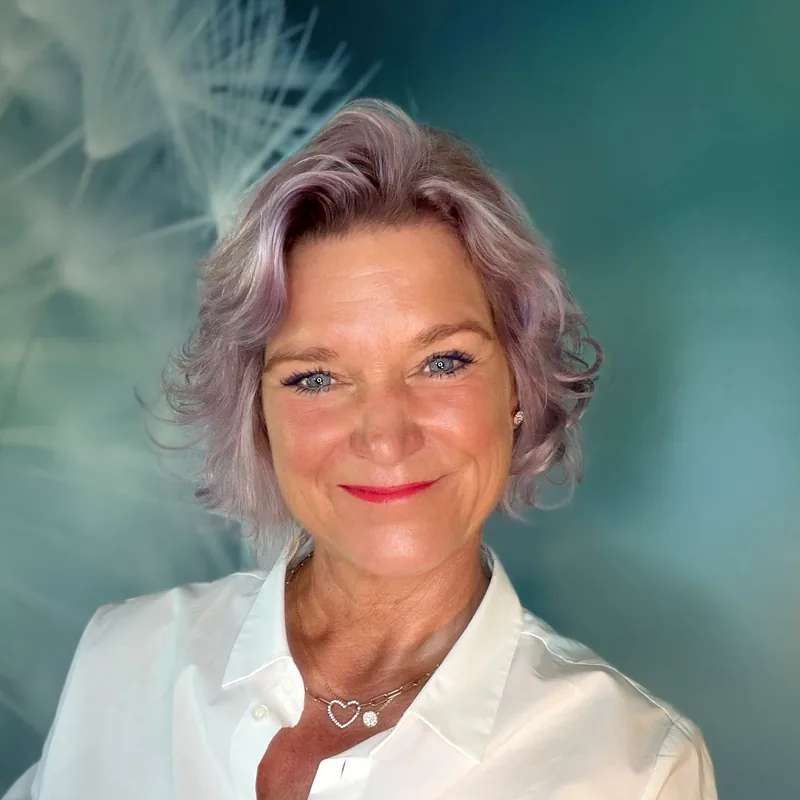
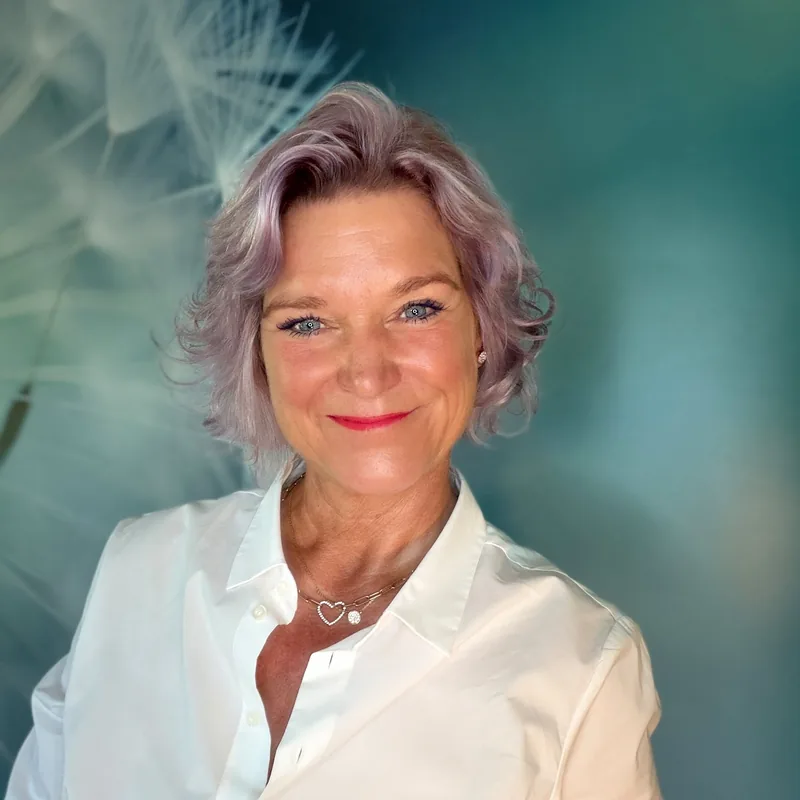
Überraschungspaket dezenter, Porträt mit mehr Abstand
- Pakete in hellem Türkis und Sand, schmale Bänder in Petrol und Taupe
- Über mich: Bildausschnitt weiter, Kopf nicht mehr so nah

Claude-Session: https://claude.ai/code/session_01LTkGqP8khUMw3CWRbYC2Nb

diff --git a/sdesign-startseite 2/assets/style.css b/sdesign-startseite 2/assets/style.css
@@ -415,18 +415,18 @@ footer{background:var(--paper);padding-top:2.5rem}
 @keyframes peek{0%,78%,100%{transform:rotateX(0)}86%{transform:rotateX(-26deg)}92%{transform:rotateX(-10deg)}}
 .cover .front,.cover .back{position:absolute;inset:0;border-radius:20px;-webkit-backface-visibility:hidden;backface-visibility:hidden}
 .cover .back{transform:rotateX(180deg);background:linear-gradient(135deg,var(--sand),var(--paper));box-shadow:inset 0 0 0 1px var(--line)}
-.cover .front{overflow:hidden;display:grid;place-items:center;color:#FFFFFF;background:radial-gradient(circle,rgba(255,255,255,.16) 1.5px,transparent 2px) 0 0/18px 18px,var(--g);box-shadow:0 22px 40px -20px rgba(21,76,85,.75),inset 0 0 0 1px rgba(255,255,255,.18)}
+.cover .front{overflow:hidden;display:grid;place-items:center;color:var(--rb);background:radial-gradient(circle,rgba(29,102,114,.07) 1.5px,transparent 2px) 0 0/18px 18px,var(--g);box-shadow:0 18px 36px -22px rgba(21,76,85,.45),inset 0 0 0 1px #DDE7E6}
 .cover .front::before,.cover .front::after{content:"";position:absolute;background:var(--rb);box-shadow:0 0 0 1px rgba(0,0,0,.04)}
-.cover .front::before{left:50%;top:0;bottom:0;width:13%;transform:translateX(-50%)}
-.cover .front::after{left:0;right:0;top:40%;height:10%;transform:translateY(-50%)}
-.cover .bow{position:absolute;z-index:1;left:50%;top:40%;width:46%;transform:translate(-50%,-62%);fill:var(--rb);filter:drop-shadow(0 4px 6px rgba(0,0,0,.25))}
-.cover .num{position:absolute;left:10%;top:7%;font-size:clamp(1.6rem,1.2rem + 1.4vw,2.4rem);font-weight:700;opacity:.9;line-height:1}
-.cover .hint{position:absolute;z-index:1;left:50%;bottom:8%;transform:translateX(-50%) rotate(-3deg);white-space:nowrap;padding:.15em .9em .25em;border-radius:999px;background:#FFFFFF;color:#1D6672;font-family:var(--f-script);font-size:clamp(1rem,.85rem + .6vw,1.35rem);box-shadow:0 8px 18px -8px rgba(0,0,0,.45)}
-.fold.teal{--g:linear-gradient(145deg,#2C9CA6,#1D6672);--rb:#FFD200}
-.fold.rose{--g:linear-gradient(145deg,#EE8197,#D8506B);--rb:#FFFFFF}
-.fold.sun{--g:linear-gradient(145deg,#FFE04D,#F4B400);--rb:#1D6672}
-.fold.sun .front{color:#1F2A2B}
-.fold.sky{--g:linear-gradient(145deg,#7CCBEB,#2C9CA6);--rb:#FFFFFF}
+.cover .front::before{left:50%;top:0;bottom:0;width:7%;transform:translateX(-50%)}
+.cover .front::after{left:0;right:0;top:40%;height:5.5%;transform:translateY(-50%)}
+.cover .bow{position:absolute;z-index:1;left:50%;top:40%;width:34%;transform:translate(-50%,-62%);fill:var(--rb);filter:drop-shadow(0 3px 4px rgba(0,0,0,.15))}
+.cover .num{position:absolute;left:10%;top:7%;font-size:clamp(1.3rem,1rem + 1vw,1.9rem);font-weight:600;opacity:.75;line-height:1}
+.cover .hint{position:absolute;z-index:1;left:50%;bottom:8%;transform:translateX(-50%) rotate(-3deg);white-space:nowrap;padding:.15em .9em .25em;border-radius:999px;background:#FFFFFF;color:#1D6672;border:1px solid #DDE7E6;font-family:var(--f-script);font-size:clamp(1rem,.85rem + .6vw,1.3rem);box-shadow:0 6px 14px -8px rgba(21,76,85,.35)}
+.fold.teal{--g:linear-gradient(145deg,#F6FBFA,#EAF5F4);--rb:#1D6672}
+.fold.rose{--g:linear-gradient(145deg,#FBF8F5,#F3EFEA);--rb:#A89A8C}
+.fold.sun{--g:linear-gradient(145deg,#F6FBFA,#EAF5F4);--rb:#2C9CA6}
+
+.fold.sky{--g:linear-gradient(145deg,#FBF8F5,#F3EFEA);--rb:#6F6358}
 .fold-item.open .cover{animation:none;transform:rotateX(-100deg)}
 .fold-item.open .inside img{transform:none;opacity:1}
 @media (hover:hover){.fold:hover .cover{animation:none;transform:rotateX(-100deg)}.fold:hover .inside img{transform:none;opacity:1}}
